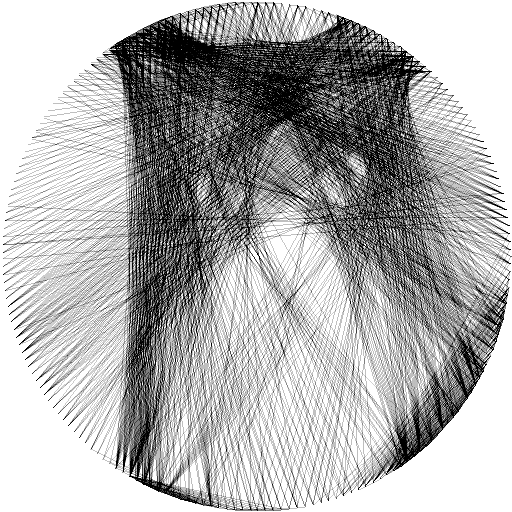
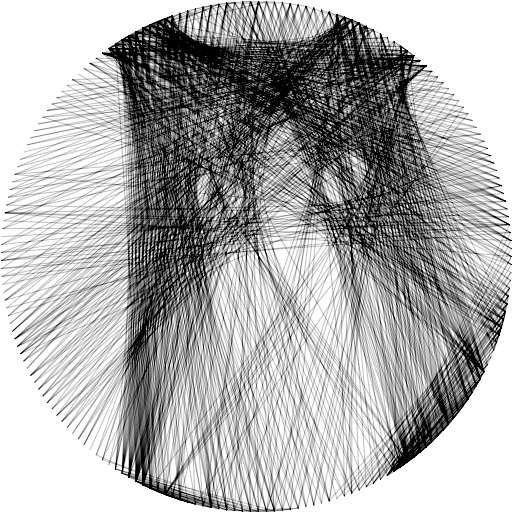
idk why didn't i push this earlier

diff --git a/image_to_stitches/src/main.rs b/image_to_stitches/src/main.rs
@@ -1,11 +1,11 @@
 mod string_canvas;
-mod ssim;
 mod mse;
+use image::{ImageBuffer, Luma};
 use image::ImageReader as ImageReader;
-use string_canvas::StringCanvas;
-use std::{os::macos::raw::stat, path::Path};
+use std::{ path::Path};
 use fixedbitset::FixedBitSet;
 use rand::Rng;
+use rand::prelude::SliceRandom;
 use rayon::prelude::*;
 
 
@@ -34,7 +34,6 @@ fn genetic_simulation(canvas:&string_canvas::StringCanvas, target_image:&Vec<u8>
     for _gen in 0..GENERATION_COUNT {
         population.par_iter_mut().for_each(|individual| {
             let drawing = bitset_to_vec(&individual.1, canvas);
-            individual.0 = ssim::ssim(&drawing, target_image, RESOLUTION, 11, 0.01, 0.03);
             // individual.0 = -mse::mse(&drawing, target_image); //negate to work with ssim implementation
         });
 
@@ -66,9 +65,6 @@ fn genetic_simulation(canvas:&string_canvas::StringCanvas, target_image:&Vec<u8>
 fn bitset_to_vec(bitset: &FixedBitSet, canvas: &string_canvas::StringCanvas) -> Vec<u8> {
     assert!(bitset.len() == canvas.count, "Bitset length does not match canvas count");
     let mut drawing = vec![255 as u8; RESOLUTION*RESOLUTION];
-    let mut source: usize = 0;
-    let mut target: usize = 1;
-    let mut prev_ind: usize = 0;
     // 01 02 03 04 12 13 14 23 24 34
     for index in bitset.ones() {
         for (flat_index, ink) in canvas.get_stitch_flat(index).into_iter() {
@@ -79,7 +75,6 @@ fn bitset_to_vec(bitset: &FixedBitSet, canvas: &string_canvas::StringCanvas) -> 
                 drawing[*flat_index] -= ink_delta;
             }
         }
-        prev_ind = index;
     }
     drawing
 }
@@ -96,13 +91,34 @@ fn load_image_as_bytes(path: &Path) -> Result<Vec<u8>, image::ImageError> {
 
     // Resize the image to the desired resolution
     let img = img.resize_exact(RESOLUTION as u32, RESOLUTION as u32, image::imageops::FilterType::Nearest);
-    
+
+    // Convert to grayscale
     let grey_img = img.into_luma8();
 
-    grey_img.save("./../images.input.png");
+    // Create a circular mask
+    let (width, height) = grey_img.dimensions();
+    let mut circular_img = ImageBuffer::new(width, height);
+    
+    let center_x = width as f32 / 2.0;
+    let center_y = height as f32 / 2.0;
+    let radius = (width.min(height) as f32 / 2.0).powi(2); // Using squared radius for comparison
+
+    for (x, y, pixel) in circular_img.enumerate_pixels_mut() {
+        let dx = x as f32 - center_x;
+        let dy = y as f32 - center_y;
+        let distance_squared = dx * dx + dy * dy;
+
+        if distance_squared <= radius {
+            *pixel = *grey_img.get_pixel(x, y);
+        } else {
+            *pixel = Luma([255u8]);
+        }
+    }
+
+    let _ = circular_img.save("./../images/input.png");
     
     // Get raw bytes
-    Ok(grey_img.as_raw().to_vec())
+    Ok(circular_img.as_raw().to_vec())
 }
 
 fn hill_climb(canvas: &string_canvas::StringCanvas, target_image:&Vec<u8>, weights:&Vec<f64>) -> FixedBitSet {
@@ -113,14 +129,16 @@ fn hill_climb(canvas: &string_canvas::StringCanvas, target_image:&Vec<u8>, weigh
     let mut image = bitset_to_vec(&state, &canvas);
     loop {
         let mut changes = 0;
+        let mut indexs: Vec<usize> = (0..canvas.count).collect();
+        indexs.shuffle(&mut rand::rng());
 
-        for i in (0..canvas.count).shuffle() { //nice to have? Helps find global maximum
+        for i in indexs {
             let slice = canvas.get_stitch_flat(i);
-            let old_fit_sliced = mse::mse_subset_weighted(&target_image, &image, &slice.keys(), weights);
+            let old_fit_sliced = mse::mse_subset_weighted(&target_image, &image, &slice.keys().collect(), weights);
 
             state.toggle(i);
             image = bitset_to_vec(&state, &canvas);
-            let new_fit_slice = mse::mse_subset_weighted(&target_image, &image, &slice.keys(), weights);
+            let new_fit_slice = mse::mse_subset_weighted(&target_image, &image, &slice.keys().collect(), weights);
 
             if new_fit_slice < old_fit_sliced {
                 changes += 1;
@@ -138,6 +156,7 @@ fn hill_climb(canvas: &string_canvas::StringCanvas, target_image:&Vec<u8>, weigh
     }
     state
 }
+
 fn main() {
     assert!(NAIL_COUNT % 2 == 1, "Nail count must be odd");
     let _canvas = string_canvas::StringCanvas::new(RESOLUTION, NAIL_COUNT);

diff --git a/image_to_stitches/src/string_canvas.rs b/image_to_stitches/src/string_canvas.rs
@@ -1,6 +1,4 @@
 use std::collections::HashMap;
-use bresenham::Bresenham;
-use fixedbitset::FixedBitSet;
 
 
 pub struct StringCanvas {
@@ -28,16 +26,17 @@ impl StringCanvas {
                 let i2 = (i1 + j) % _nail_count;
                 let radians2 = 2.0 * pi * i2 as f64 / _nail_count as f64;
                 let xy2 = ((radius - 1.0) * radians2.cos(), (radius - 1.0) * radians2.sin());
-                let true_distance = ((xy1.0 - xy2.0).powi(2) + (xy1.1 - xy2.1).powi(2)).sqrt();
-                let bresenham: Vec<_> = Bresenham::new(
-                    (xy1.0 as isize, xy1.1 as isize),
-                    (xy2.0 as isize, xy2.1 as isize)
-                ).collect();
-                let ink = 255.0 * bresenham.len() as f64 / true_distance; // POTENTIAL FOR IMPROVEMENT, BASE INK ON DISTANCE TO TRUE LINE
-                for (x, y) in bresenham {
-                    let flat_index: usize = (x + radius as isize) as usize + (((y - radius as isize) * -1) as usize * _resolution);
-                    assert!(flat_index < _resolution * _resolution);
-                    inner_map.insert(flat_index, ink);
+
+                for point in 0.._resolution*_resolution {
+                    let x_corner = point % _resolution;
+                    let y_corner = point / _resolution;
+                    let xy_cart = (x_corner as f64 - radius, (y_corner as f64 - radius) * -1.0);
+
+                    let dist = distance_to_line_segment(xy1, xy2, xy_cart);
+                    if dist > 1.0 {
+                        continue;
+                    }
+                    inner_map.insert(point, (1.0 - dist) * 255.0);
                 }
                 middle_map.insert(i2, inner_map);
                 flat_index_to_stitch.insert(count, (i1, i2));
@@ -78,4 +77,46 @@ impl StringCanvas {
         let indexs = self.flat_index_to_stitch.get(&flat_index).unwrap();
         return self.get_stitch(indexs.0, indexs.1);
     }
+}
+
+// fn distance_to_line(
+//     xy1: (f64, f64),
+//     xy2: (f64, f64),
+//     point: (f64, f64)
+// ) -> f64 {
+//     let a = xy2.1 - xy1.1;
+//     let b = xy1.0 - xy2.0;
+//     let c = xy2.0 * xy1.1 - xy1.0 * xy2.1;
+//     (a * point.0 + b * point.1 + c).abs() / (a * a + b * b).sqrt()
+// }
+
+pub fn distance_to_line_segment(
+    xy1: (f64, f64),
+    xy2: (f64, f64),
+    point: (f64, f64),
+) -> f64 {
+    let (x1, y1) = xy1;
+    let (x2, y2) = xy2;
+    let (x0, y0) = point;
+
+    let dx = x2 - x1;
+    let dy = y2 - y1;
+
+    // Handle case where the segment is just a point
+    if dx == 0.0 && dy == 0.0 {
+        return ((x0 - x1).powi(2) + (y0 - y1).powi(2)).sqrt();
+    }
+
+    // Projection factor (how far along the segment the closest point is)
+    let t = ((x0 - x1) * dx + (y0 - y1) * dy) / (dx * dx + dy * dy);
+
+    // Clamp to the segment (0 ≤ t ≤ 1)
+    let t_clamped = t.max(0.0).min(1.0);
+
+    // Closest point on the segment
+    let closest_x = x1 + t_clamped * dx;
+    let closest_y = y1 + t_clamped * dy;
+
+    // Euclidean distance
+    ((x0 - closest_x).powi(2) + (y0 - closest_y).powi(2)).sqrt()
 }

diff --git a/image_to_stitches/src/mse.rs b/image_to_stitches/src/mse.rs
@@ -14,13 +14,13 @@ pub fn mse_weighted(
 pub fn mse_subset_weighted(
     target: &[u8],
     current: &[u8],
-    set: &[usize],
+    set: &Vec<&usize>,
     weights: &[f64]
 ) -> f64 {
     let mut sum: f64 = 0.0;
     for i in set {
-        let add = target[*i] as f64 - current[*i] as f64;
-        sum += add * add * weights[*i];
+        let add = target[**i] as f64 - current[**i] as f64;
+        sum += add * add * weights[**i];
     }
     sum
 }
